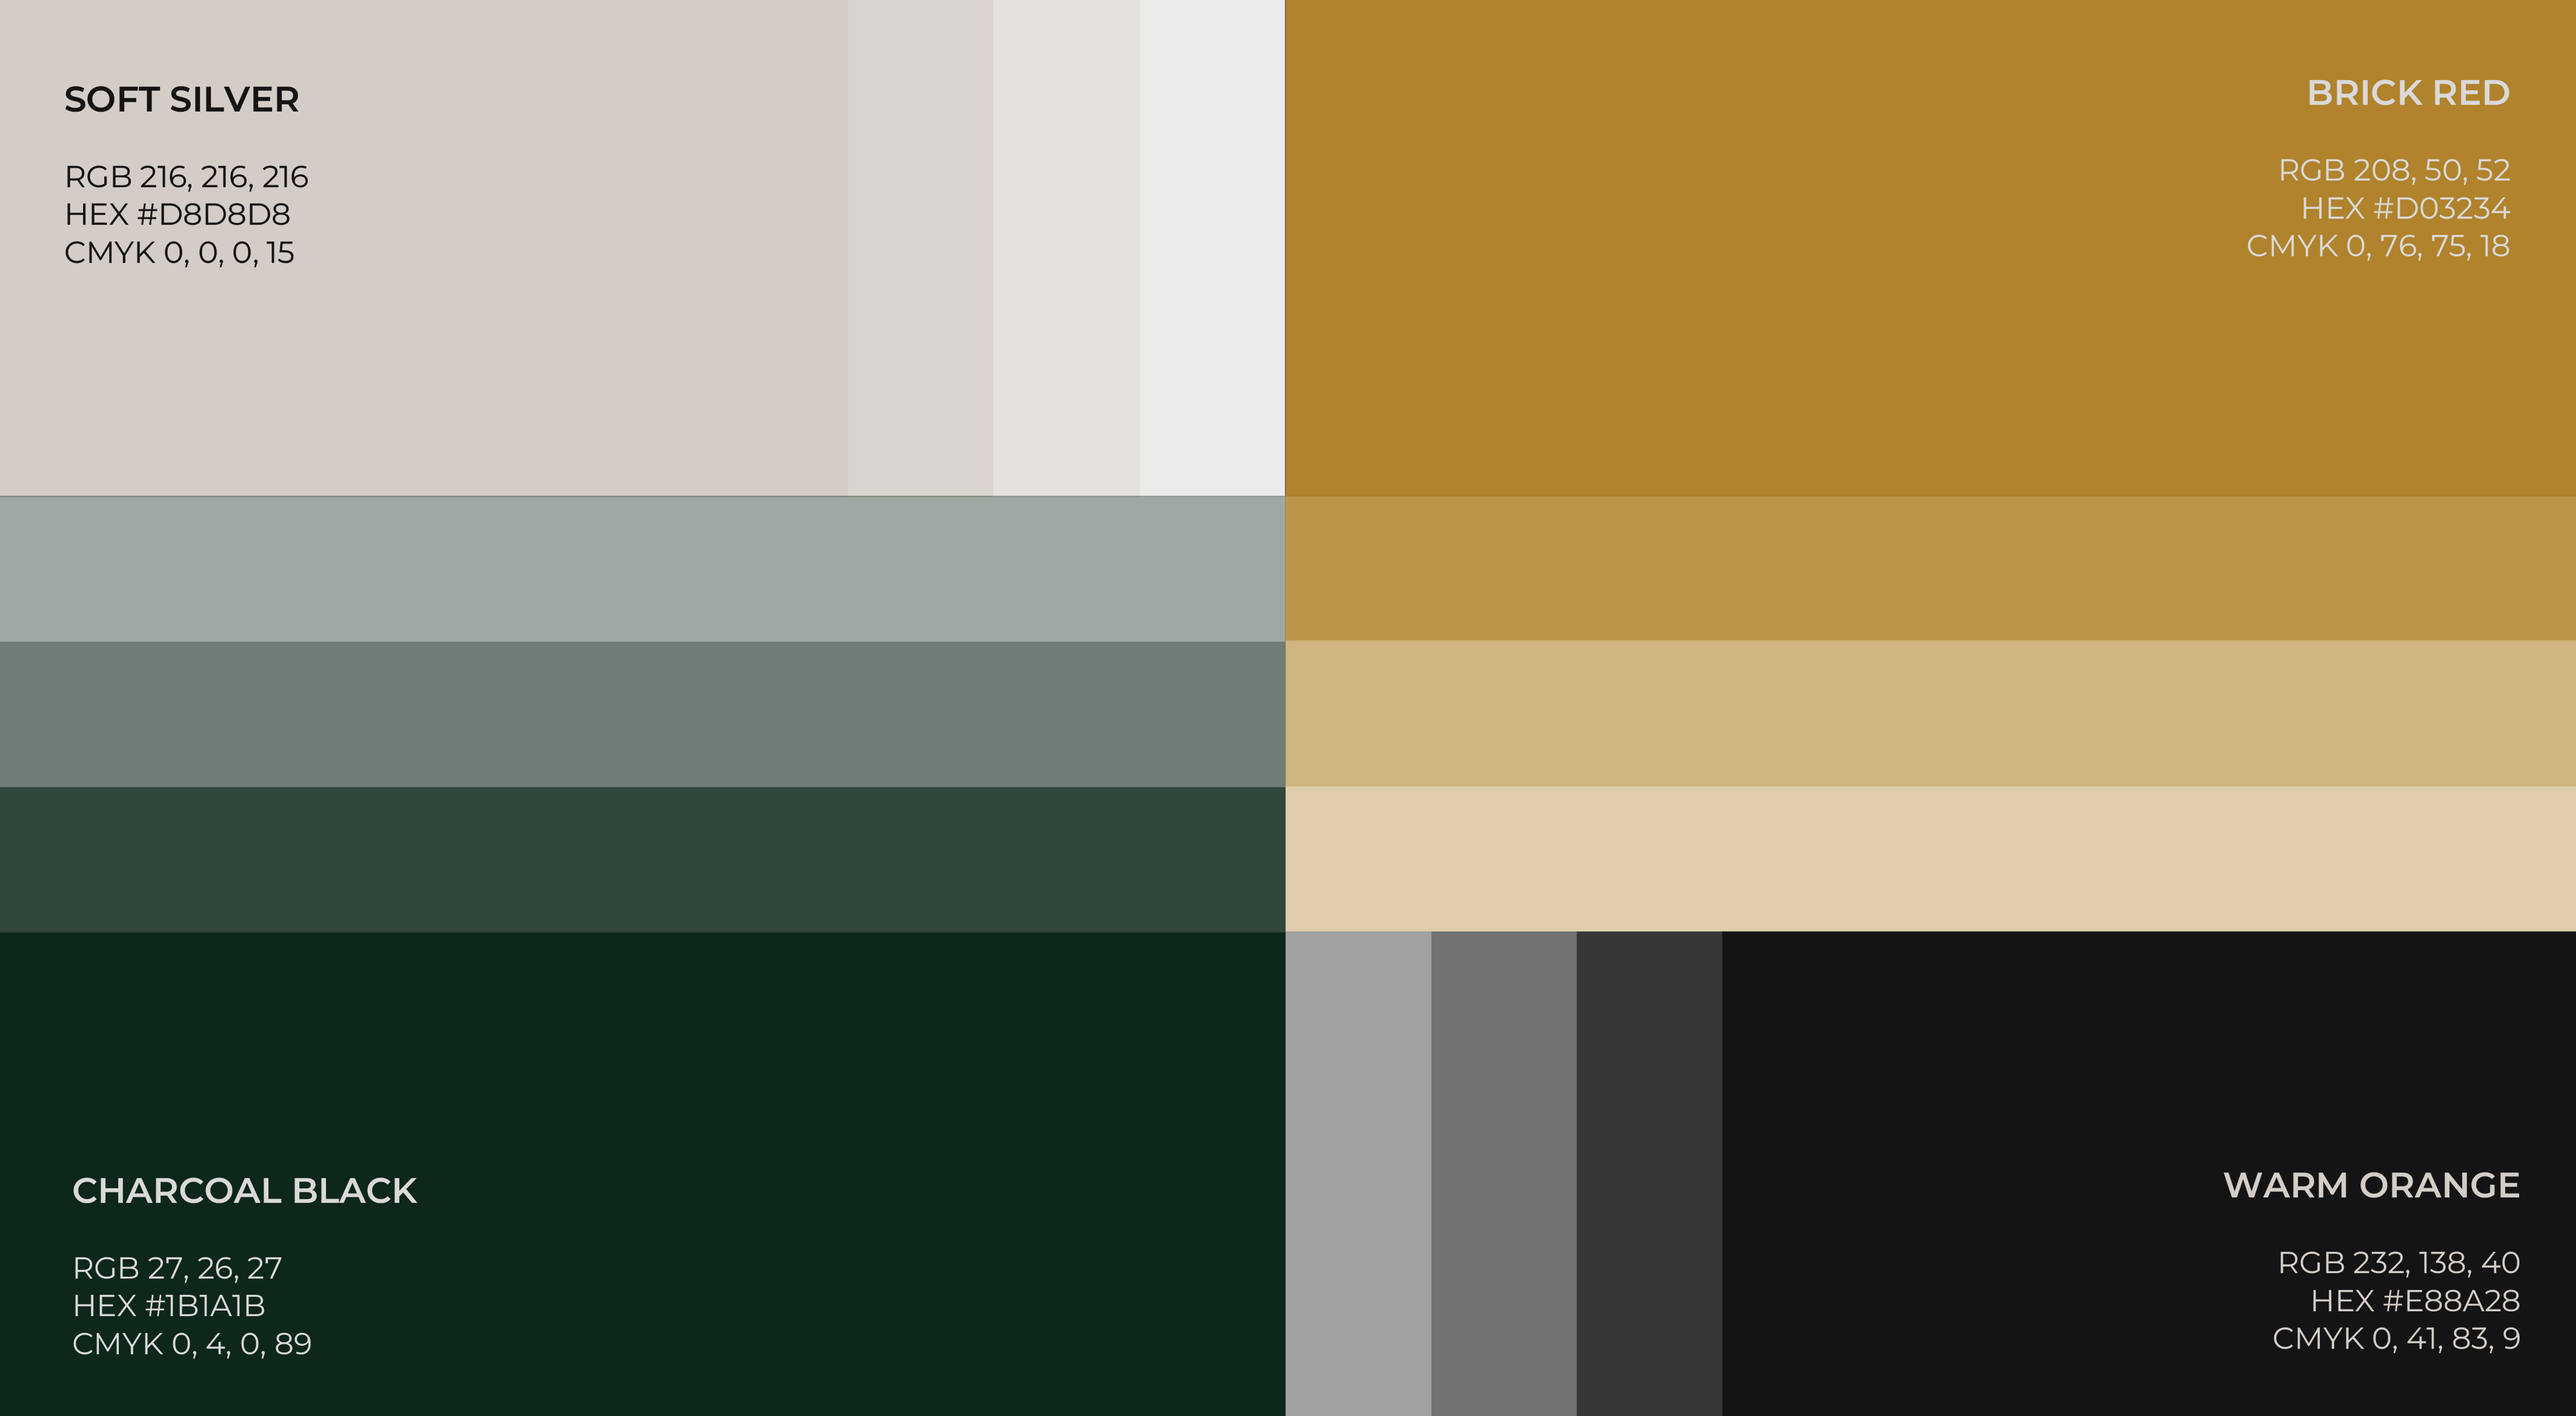
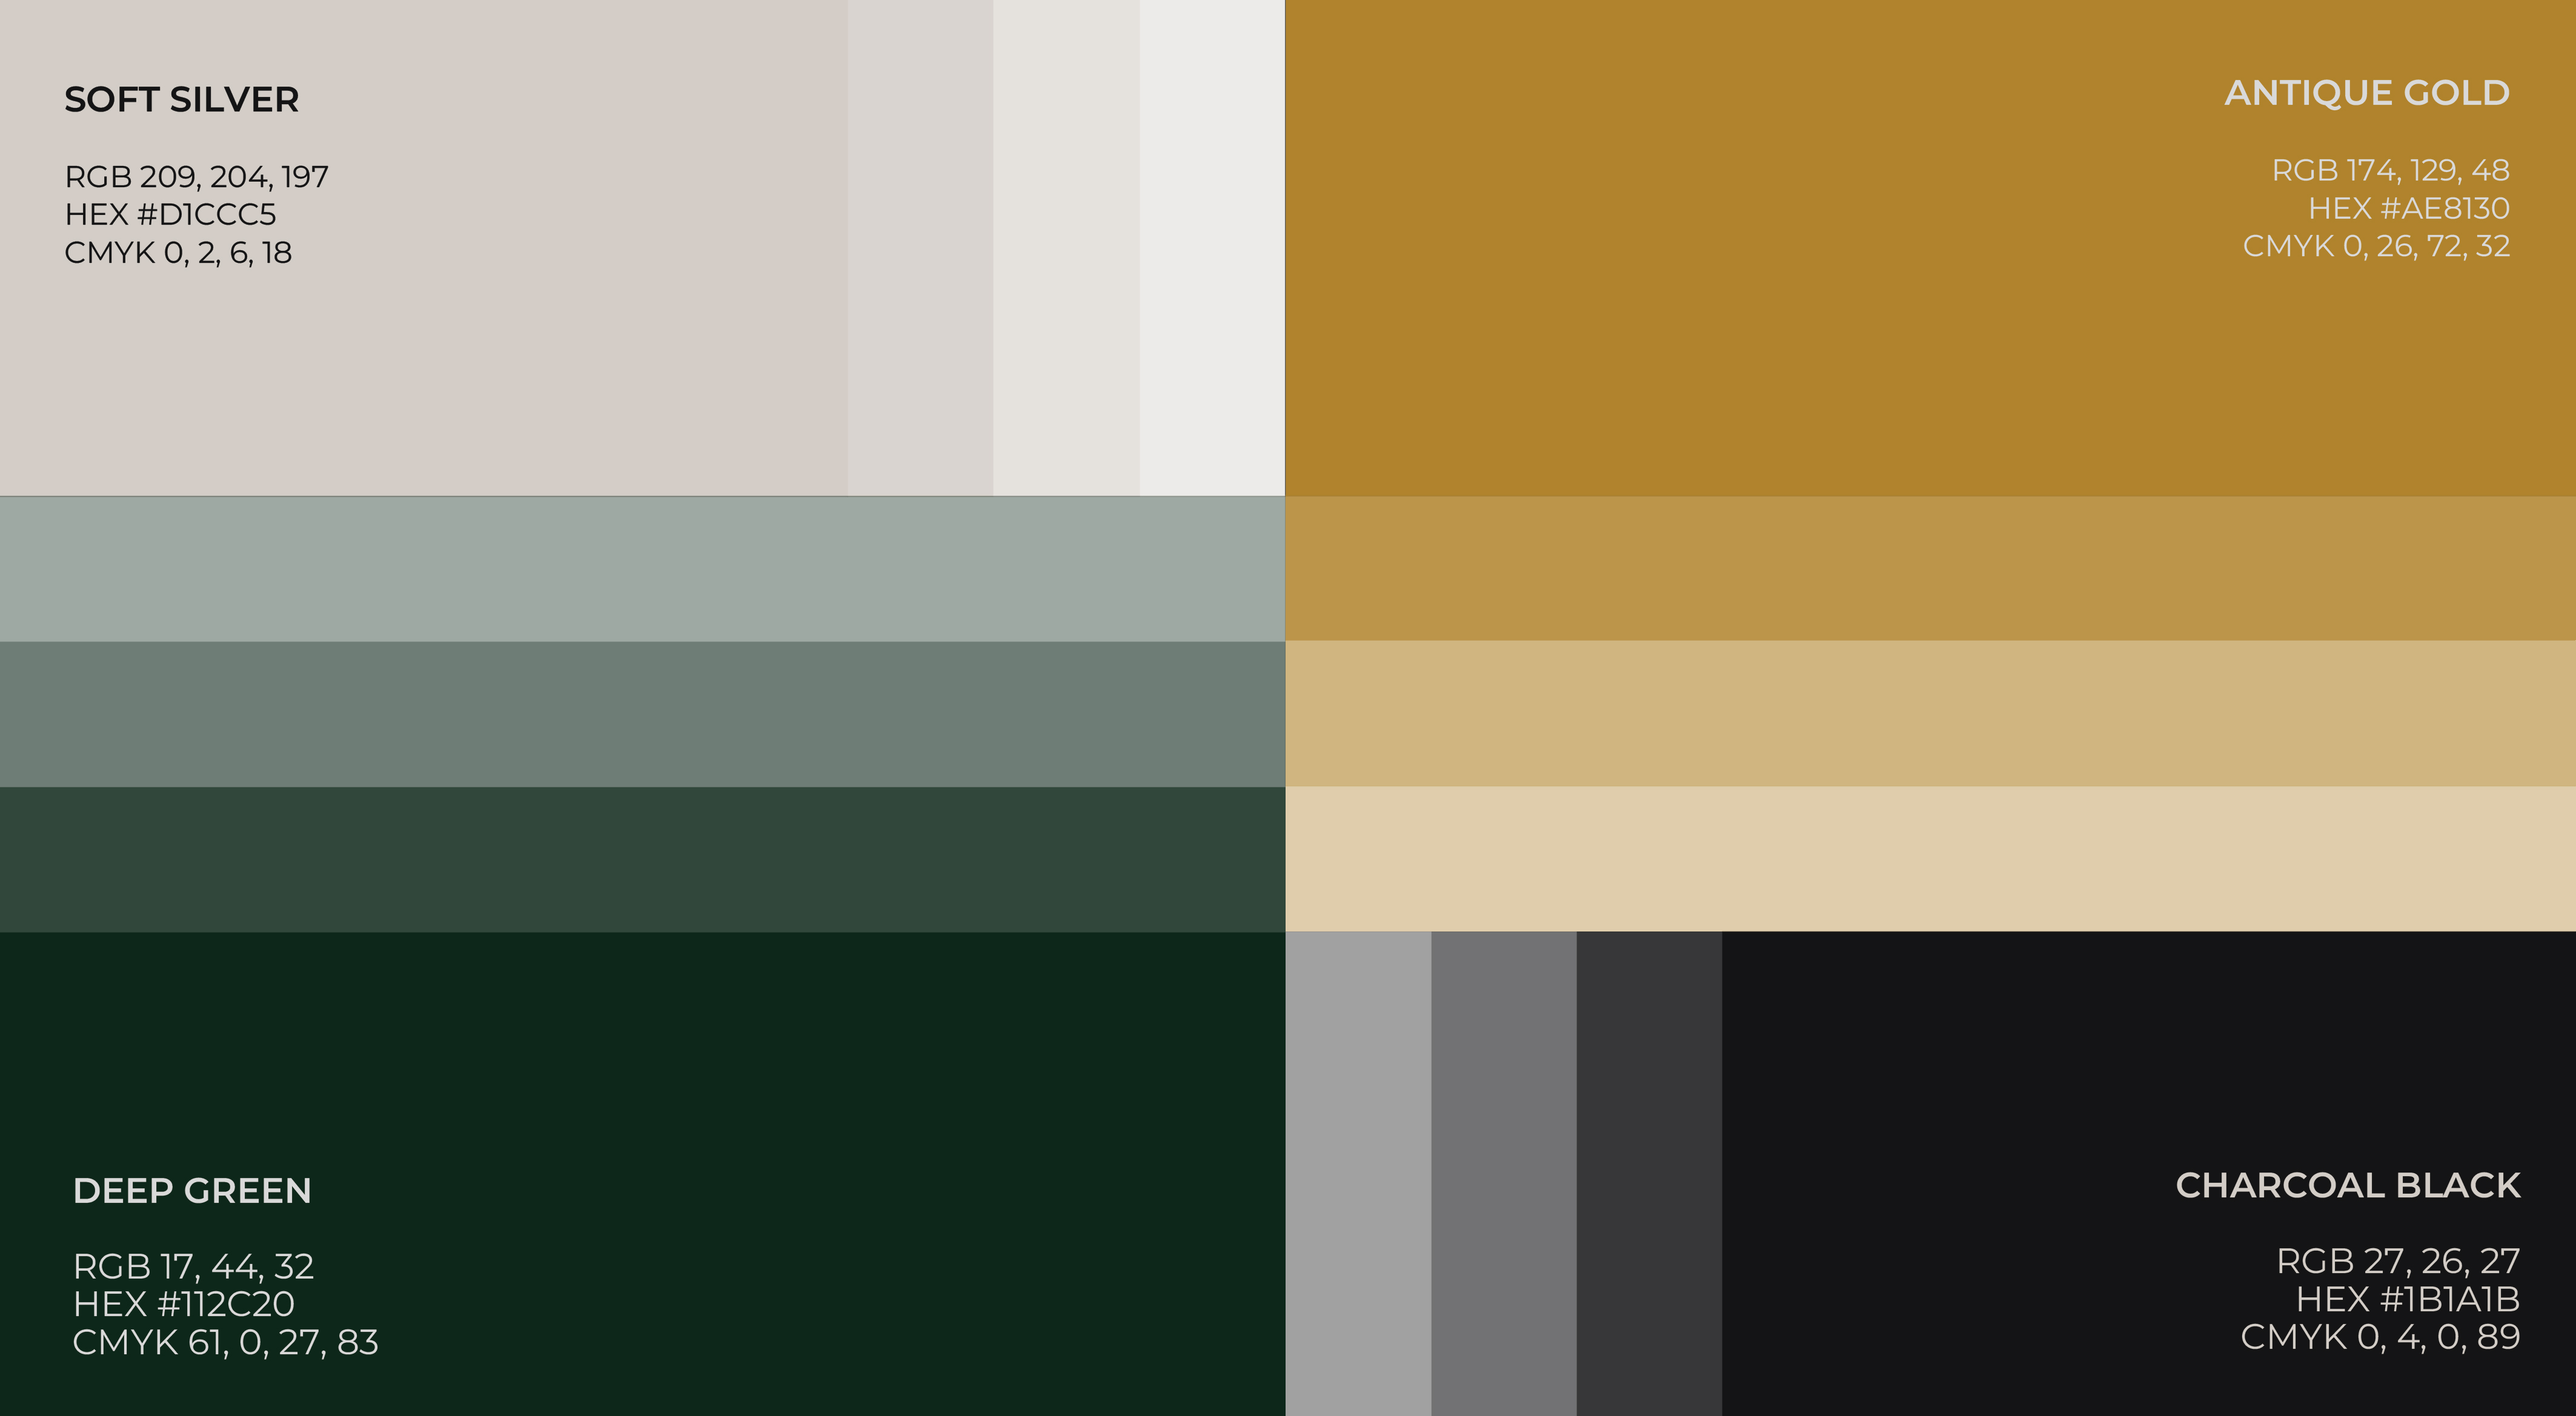
Re-add Lencho Stone Crusher, wire in LHC case-study images
- Restore Lencho Stone Crusher to Brand Identity work grid and the
  case-study cycle (headline/overview kept from before it was
  removed); card image already existed at hero-lencho.jpg.
- Wire in LHC's case-study hero + 14 mockups (renamed the hero file
  to match the case-<slug>-hero.jpg convention).
- Update Godo Properties mockup 04 with the replacement file.
- Remove unused logo-wordmark.png (not referenced anywhere).

diff --git a/js/data.js b/js/data.js
@@ -14,6 +14,7 @@ const WORK_DATA = [
   { tag: 'Real Estate', name: 'Godo Properties', category: 'Brand Identity', slug: 'godo-properties', image: 'assets/hero-godo.jpg', placeholder: 'Godo Properties visual', hasCaseStudy: true },
   { tag: 'Charity', name: 'LHC', category: 'Brand Identity', slug: 'lhc', image: 'assets/hero-lhc.jpg', placeholder: 'LHC visual', hasCaseStudy: true },
   { tag: 'Human Rights', name: 'HALE HRIN', category: 'Brand Identity', slug: 'hale', image: 'assets/hero-hale.jpg', placeholder: 'HALE HRIN visual', hasCaseStudy: true },
+  { tag: 'Industrial', name: 'Lencho Stone Crusher', category: 'Brand Identity', slug: 'lencho', image: 'assets/hero-lencho.jpg', placeholder: 'Lencho Stone Crusher visual', hasCaseStudy: true },
   { name: 'Yotor Marketing', category: 'Social Media', slug: 'yotor-marketing', image: null, placeholder: 'Yotor Marketing post', hasCaseStudy: true },
   { name: 'Gara Missional Bootcamp', category: 'Social Media', slug: 'gara-missional-bootcamp', image: null, placeholder: 'Gara Missional Bootcamp post', hasCaseStudy: true },
   { name: 'Peace Campaign', category: 'Social Media', slug: 'peace-campaign', image: null, placeholder: 'Peace Campaign post', hasCaseStudy: true },
@@ -79,9 +80,10 @@ const SOCIAL_LINKS = [
 // file in assets/ and set heroImage to its path once available.
 const PROJECT_LIST = [
   { slug: 'hale', name: 'HALE HRIN', category: 'Branding', heroImage: 'assets/case-hale-hero.jpg', gallery: Array.from({ length: 13 }, (_, i) => 'assets/case-hale-mockup-' + String(i + 1).padStart(2, '0') + '.jpg'), headline: 'A human rights and inclusion network identity.', overview1: 'HALE: Human Rights and Inclusion Network (H-HRIN) is a board-led CSO in Ethiopia advancing access to justice, gender equality, child and labor rights, disability inclusion, cultural rights, and environmental sustainability.', overview2: 'The mark combines a running kid symbolizing empowerment, a carrying hand representing unity and support, and a green leaf signifying environmental sustainability and growth.' },
+  { slug: 'lencho', name: 'Lencho Stone Crusher', category: 'Branding', heroImage: null, headline: 'An industrial brand identity built for durability and scale.', overview1: 'Lencho Stone Crusher needed a mark and system that read as rugged and dependable across heavy equipment, signage, and print.', overview2: 'The identity leans into bold geometry and an industrial palette, built to hold up at any size from a hard hat sticker to a site banner.' },
   { slug: 'nubia', name: 'Nubia Designs', category: 'Branding', heroImage: 'assets/case-nubia-hero.jpg', gallery: Array.from({ length: 14 }, (_, i) => 'assets/case-nubia-mockup-' + String(i + 1).padStart(2, '0') + '.jpg'), headline: 'A brand identity built for a growing design venture.', overview1: 'Nubia Designs needed a mark that felt distinctive and premium from the very first touchpoint.', overview2: 'The system pairs a confident wordmark with a flexible visual language built to scale across print and digital.' },
   { slug: 'godo-properties', name: 'Godo Properties', category: 'Branding', heroImage: 'assets/case-godo-properties-hero.jpg', gallery: Array.from({ length: 12 }, (_, i) => 'assets/case-godo-properties-mockup-' + String(i + 1).padStart(2, '0') + '.jpg'), headline: 'A real estate brand identity built on trust and scale.', overview1: 'Godo Properties needed an identity that read as established and trustworthy to buyers and investors alike.', overview2: 'The mark and system carry across signage, marketing collateral, and digital touchpoints with the same confident tone.' },
-  { slug: 'lhc', name: 'LHC', category: 'Branding', heroImage: null, headline: 'A charity brand identity for children in need.', overview1: 'LHC is a charity club dedicated to helping children in need. The identity had to carry warmth and hope while staying credible for donors and partners.', overview2: 'The system pairs a friendly mark with a warm palette, extended into a supporting pattern used across materials.' },
+  { slug: 'lhc', name: 'LHC', category: 'Branding', heroImage: 'assets/case-lhc-hero.jpg', gallery: Array.from({ length: 14 }, (_, i) => 'assets/case-lhc-mockup-' + String(i + 1).padStart(2, '0') + '.jpg'), headline: 'A charity brand identity for children in need.', overview1: 'LHC is a charity club dedicated to helping children in need. The identity had to carry warmth and hope while staying credible for donors and partners.', overview2: 'The system pairs a friendly mark with a warm palette, extended into a supporting pattern used across materials.' },
   { slug: 'ahg-uniform', name: 'African Holding Group Sales Uniform', category: 'Merchandise', heroImage: 'assets/uniform-hero.jpg', headline: 'More than a uniform, this concept was designed as a wearable extension of the brand.', overview1: "For African Holding Group's sales team, I created a visual system that balances professionalism, cultural character, and everyday comfort.", overview2: 'Sage green, bold black, tailored silhouettes, heritage-inspired geometric details, and signature gold accessories come together to create a confident and recognizable identity — ensuring the team looks unified while allowing flexibility and individual expression.', gallery: ['assets/uniform-detail-1.jpg', 'assets/uniform-detail-2.jpg'] },
 
   // Below: case studies awaiting real photos. gallery is pre-sized to the
